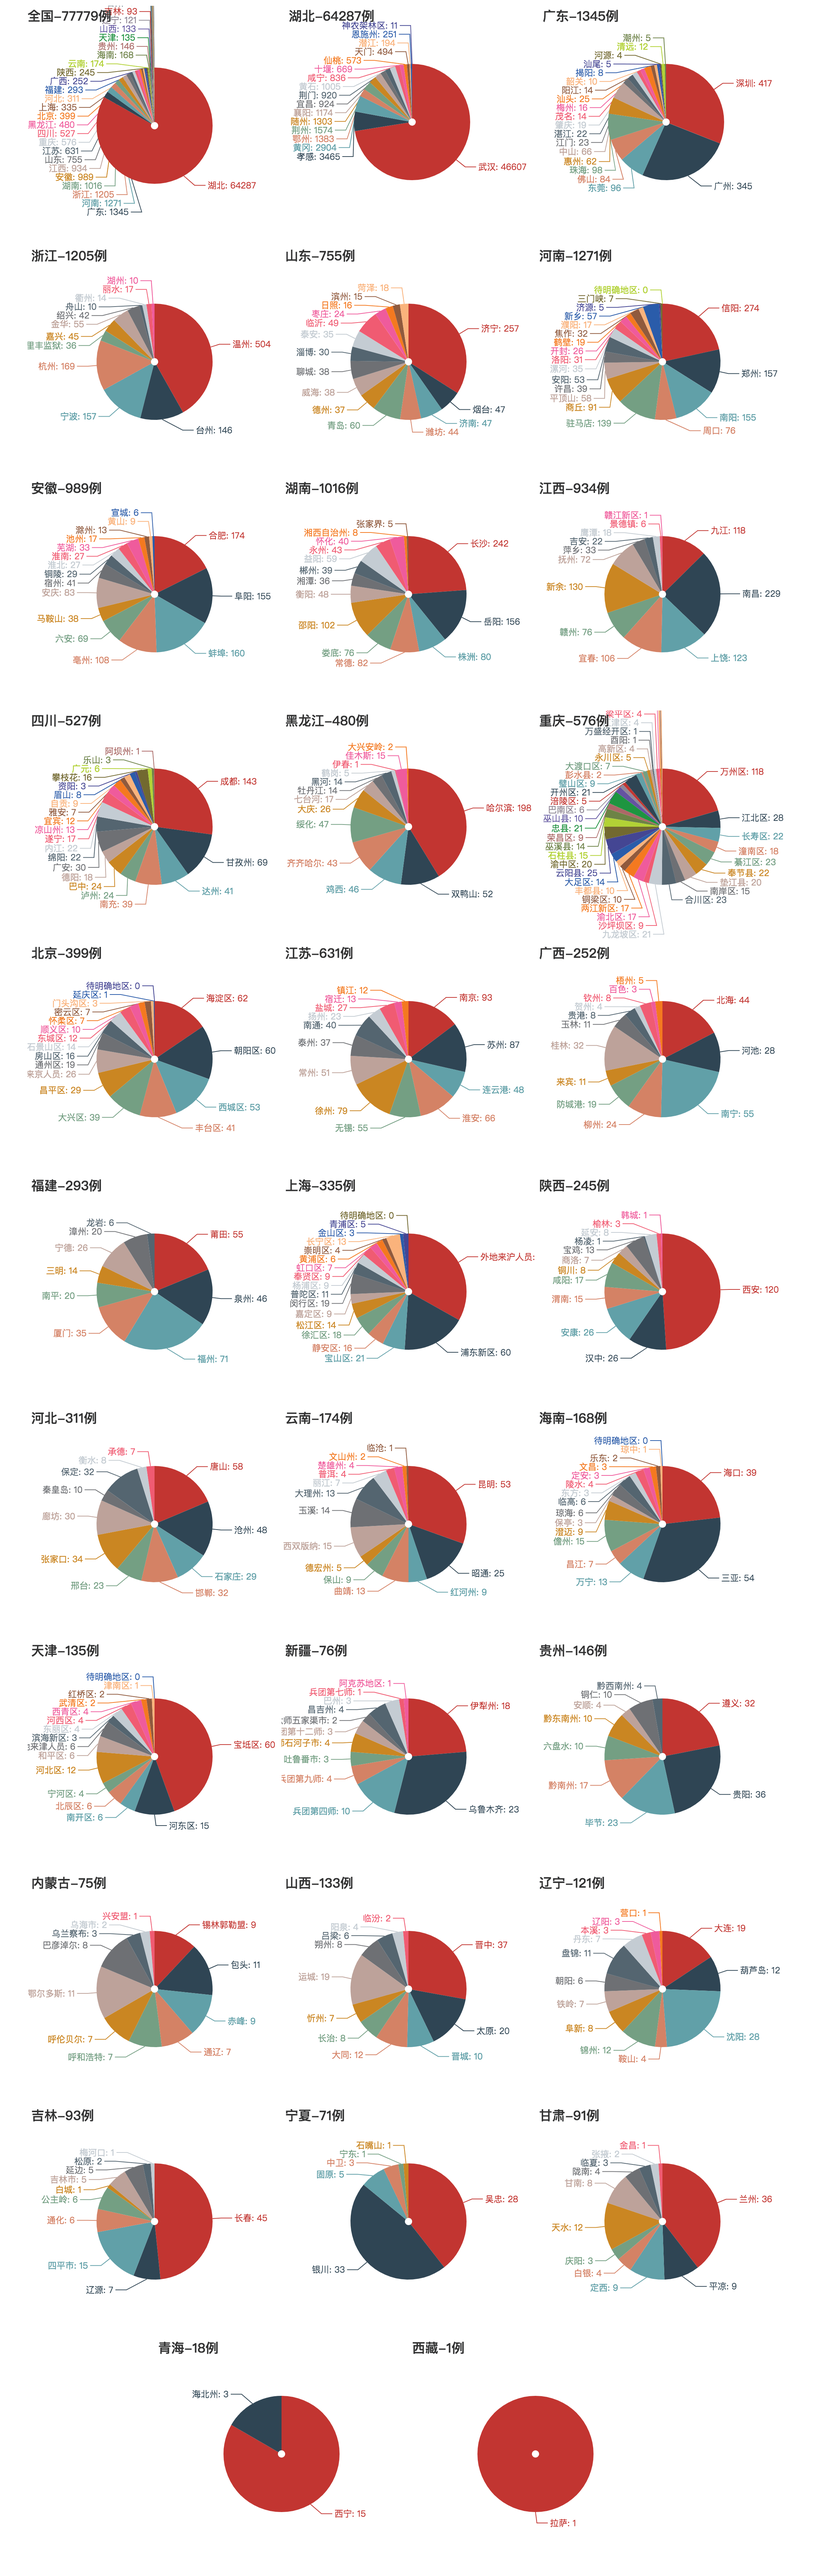
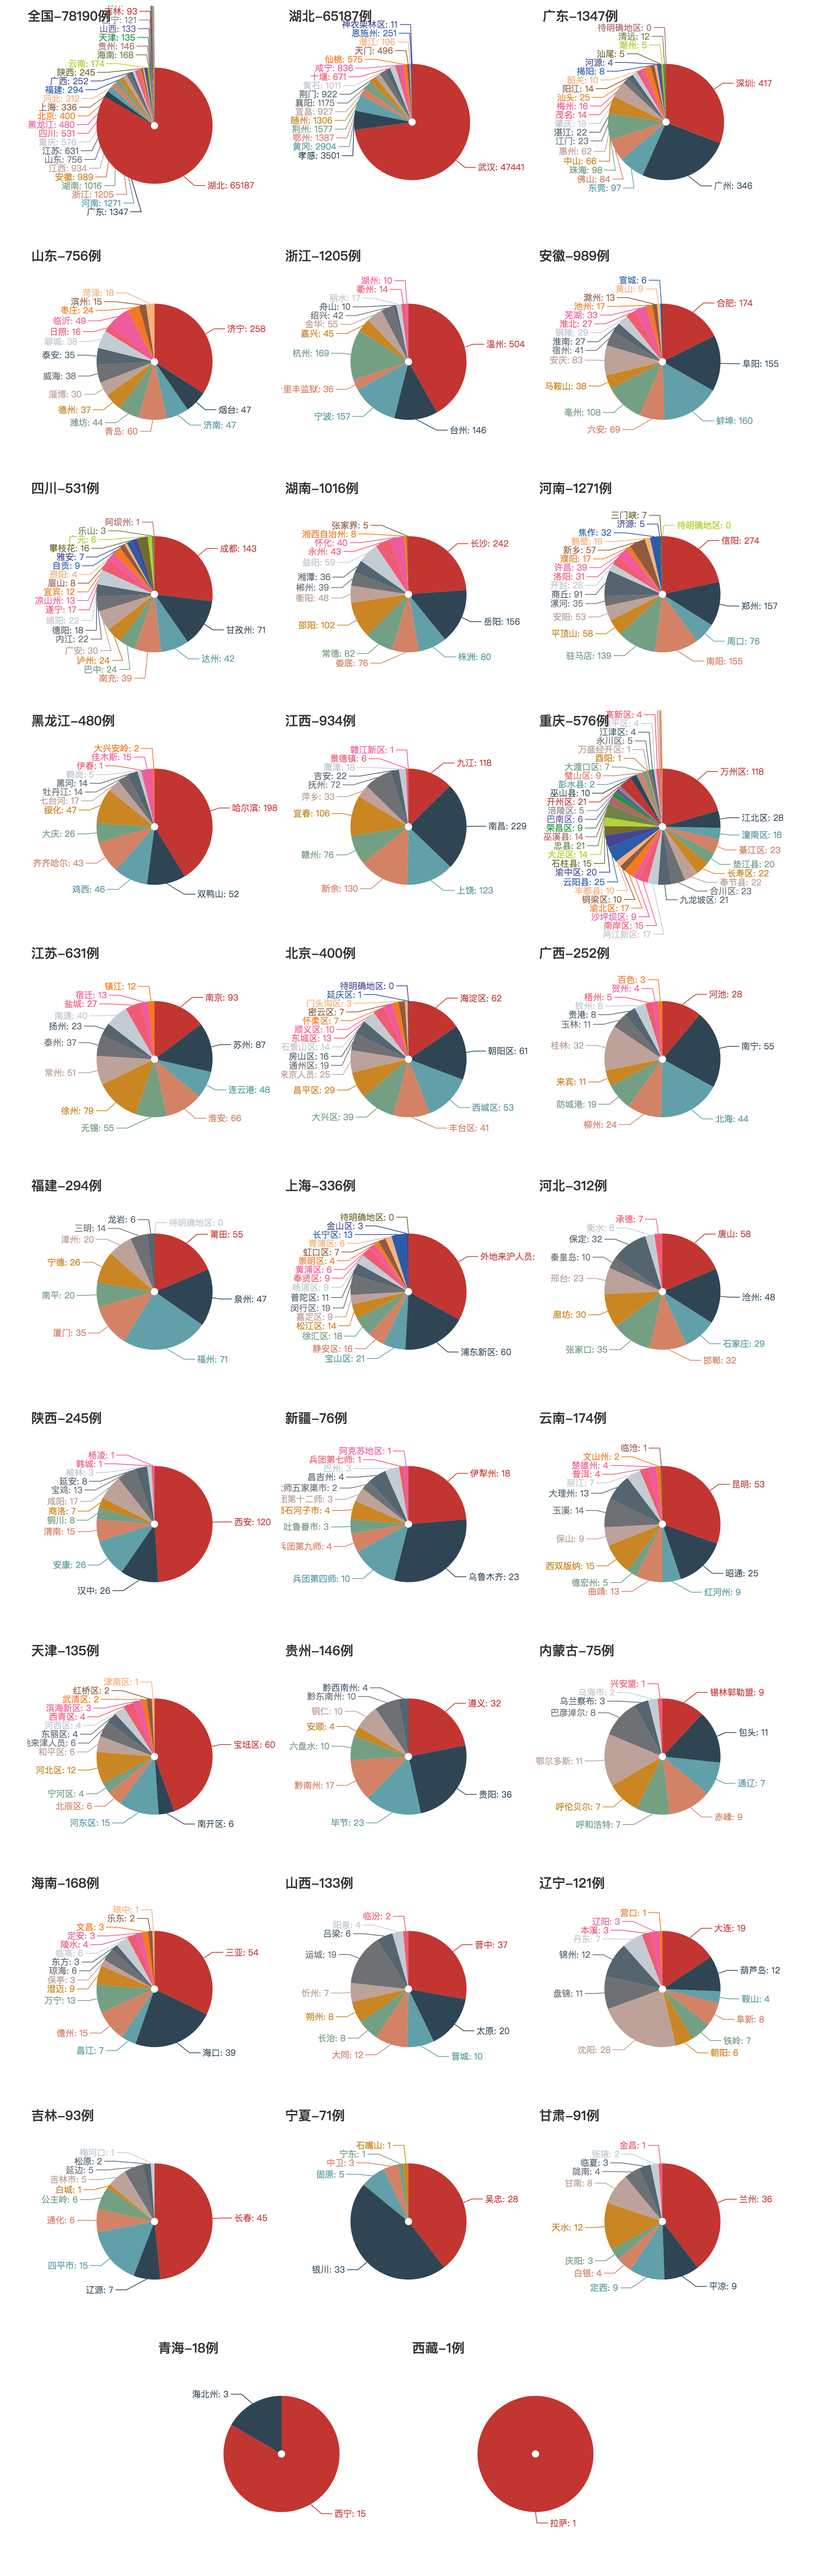
update result

diff --git a/main.py b/main.py
@@ -97,9 +97,9 @@ def draw_tendency(month, day):
     dates = ['1-%d' % i for i in range(22, 31 + 1)]
     dates.extend(['2-%02d' % i for i in range(1, day)])
     v0 = [131, 259, 444, 688, 769, 1771, 1459, 1737, 1982, 2102, 2590, 2829, 3235, 3887, 3143, 3399, 2656, 3062, 2478,
-          2015, 15152, 5090, 2641, 2009, 2051, 1886, 1749, 385, 397, 643, 416, 517]
+          2015, 15152, 5090, 2641, 2009, 2051, 1886, 1749, 385, 397, 643, 416, 517, 406]
     v1 = [69, 105, 180, 323, 371, 1291, 840, 1032, 1220, 1347, 1921, 2103, 2345, 3156, 2447, 2841, 2147, 2618, 2097,
-          1638, 14840, 4823, 2420, 1843, 1933, 1807, 1693, 349, 366, 630, 398, 499]
+          1638, 14840, 4823, 2420, 1843, 1933, 1807, 1693, 349, 366, 630, 398, 499, 401]
     v2 = [v0[i] - v1[i] for i in range(len(v0))]
     print(v2)
     c = (
@@ -126,7 +126,7 @@ def draw_tendency(month, day):
             .set_global_opts(title_opts=opts.TitleOpts(title=""),
                              yaxis_opts=opts.AxisOpts(
                                  max_=16000,
-                                 min_=10,
+                                 min_=1,
                                  type_="log",
                                  name="y",
                                  splitline_opts=opts.SplitLineOpts(is_show=True),
@@ -261,7 +261,7 @@ def draw_multiple_pie(month, day):
 
 
 if __name__ == '__main__':
-    m, d = 2, 24
+    m, d = 2, 25
     get_html(m, d)
     draw_tendency(m, d)
     draw_multiple_pie(m, d)

diff --git a/README.md b/README.md
@@ -28,6 +28,7 @@
 - 更新：2020.2.23 08:51
 - 更新：2020.2.24 11:57 最近数据上报都变慢了，改成每天中午更新好了
 - 更新：2020.2.25 09:20
+- 更新：2020.2.26 10:56 今天除湖北省外，其他省份共新增5例，恍惚觉得疫情要结束了
 
 # 全国/各省份疫情地图
 ![image](https://github.com/shadow12138/WuHanGanBaDei/blob/master/result/r1.png)
